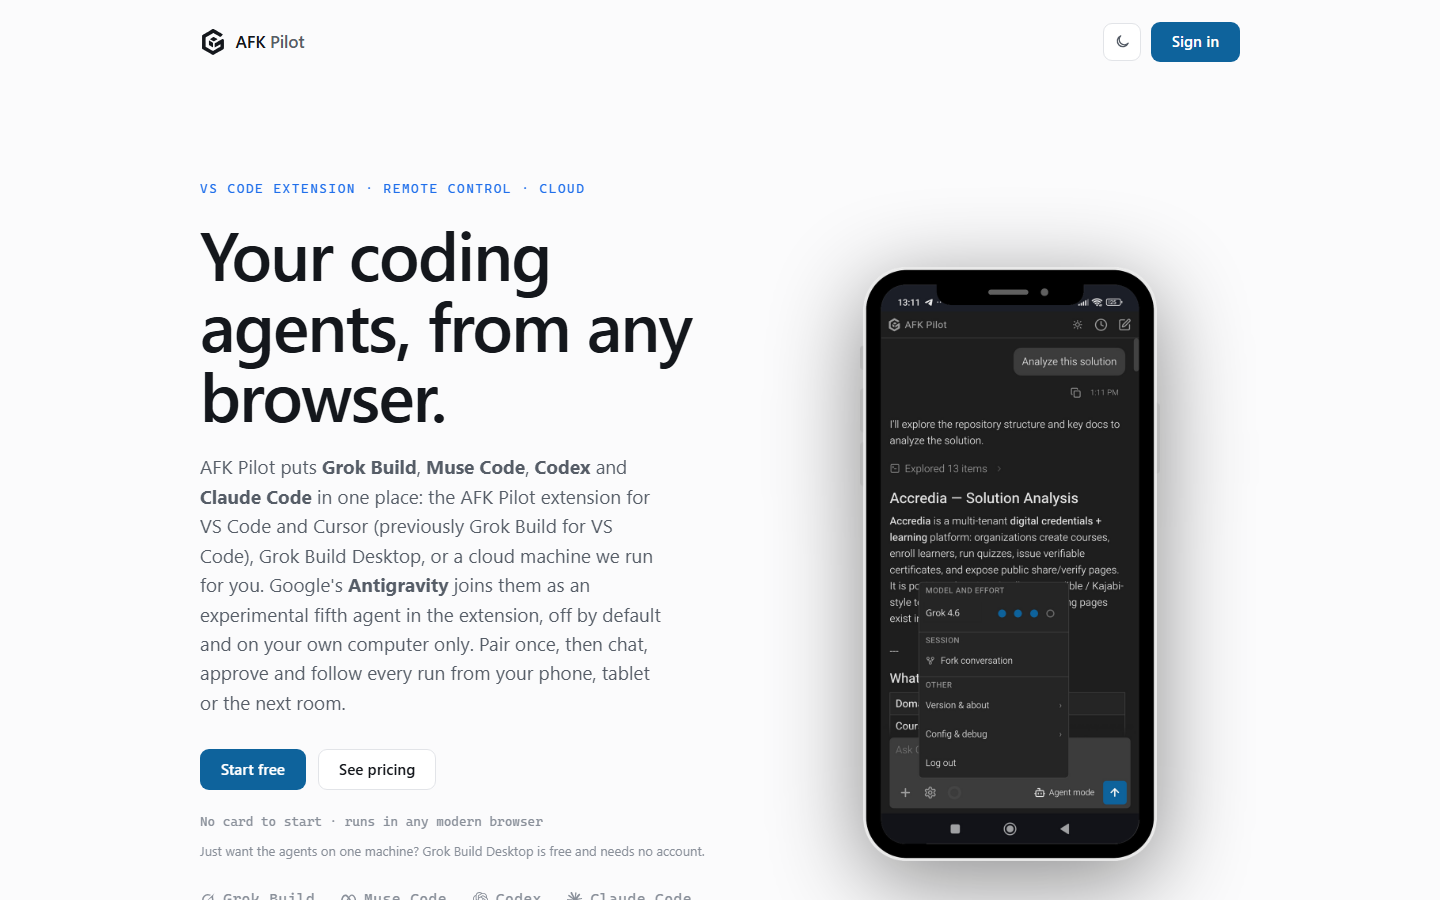
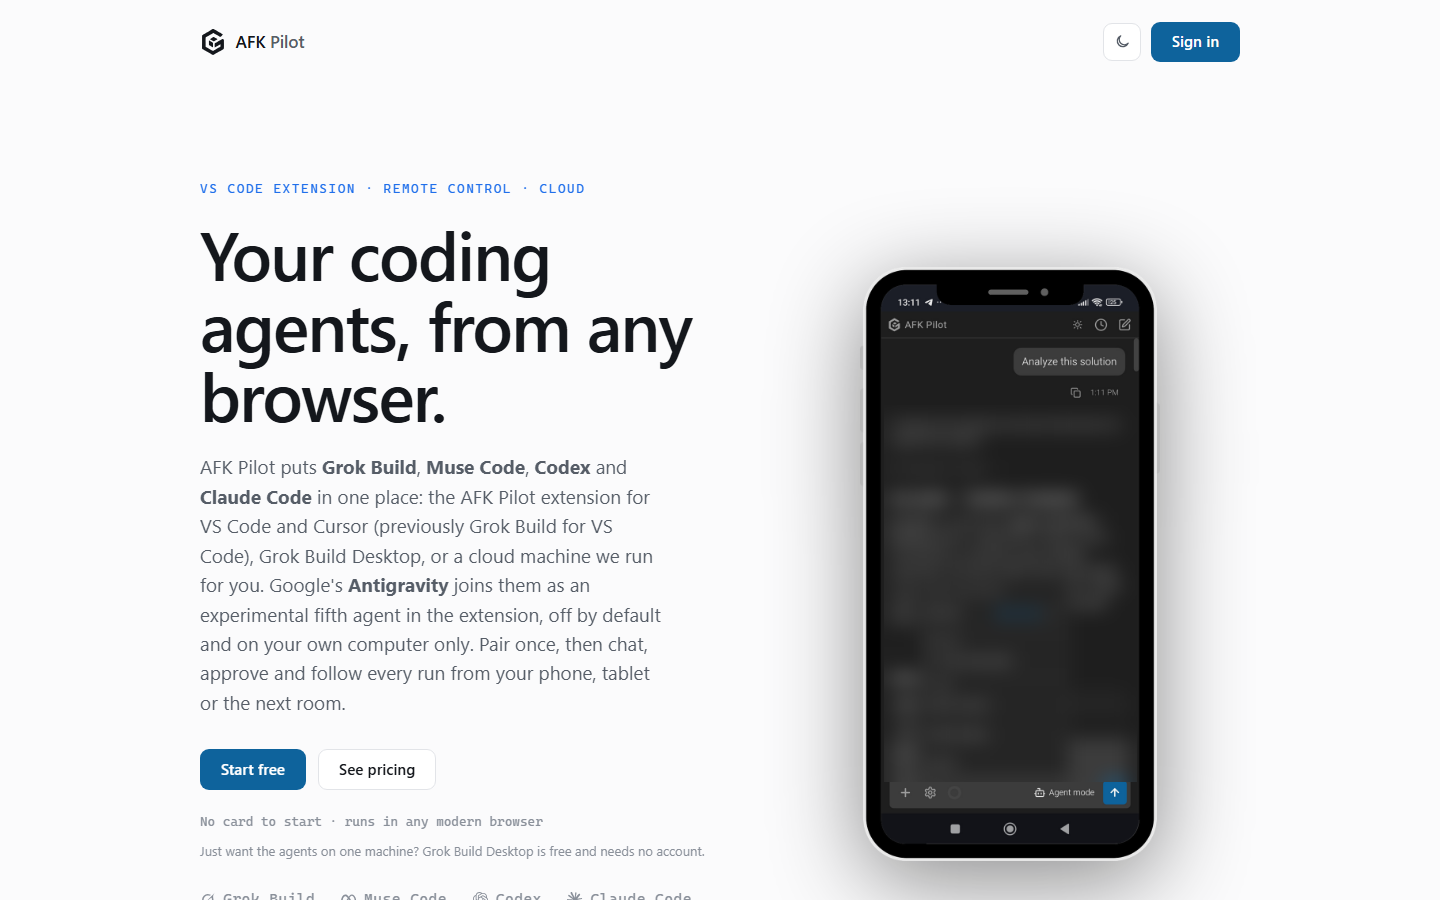
Round 92: the AFK Pilot screenshot's phone chat blurred; review and the walkthrough follow the pack, not a copy
- assets/case-studies/afkpilot.png: the chat on the hero's phone mockup named a
  private product; its text is blurred. AGENTS.md: a new or changed image is
  read by eye, since the leak check reads text files only.
- design's review.md: a general rule is drafted as a change for this collection
  naming method.md, and a preference goes in the kit README or user-level
  instructions, never into the installed pack.
- WALKTHROUGH and README: a builder needs app-stack installed in it for screens
  and an MCP server; the product keeps no copy.

Claude-Session: https://claude.ai/code/session_01Q1TYu6njEYr3HdHohgf61S

Changed region(s): [[0.625, 0.4667, 0.7812, 0.6844], [0.625, 0.7467, 0.6875, 0.84], [0.6562, 0.7156, 0.6875, 0.7467]]

diff --git a/app-stack/skills/design/references/review.md b/app-stack/skills/design/references/review.md
@@ -42,11 +42,11 @@ A monitoring product's design README said the method "applies unchanged" and poi
    - Each specimen is scoped (one class prefix, its own variables), so a set of them assembles into one page.
    - Publish that page where the owner can open it on a phone, as an artifact. Specimens decide faster than prose.
 7. **Sort fixes from owner's calls.** The test: does the change contradict something written, or is it taste? If either, it's the owner's call. Give each one a recommendation (do it / try it / don't) and what it goes against, and ask for the answers in one message, by number.
-8. **Build the fixes, and hold each rule with a test** where one can be written: a source scan, as the colour-literal guard is, or a pinned pair in the token test. Write each rule into the method (general) or the product's kit README (this product only), with its receipt. A rule that only exists in a review report is gone by the next product.
+8. **Build the fixes, and hold each rule with a test** where one can be written: a source scan, as the colour-literal guard is, or a pinned pair in the token test. Write a rule for this product only into its kit README, and a general one as a change for this collection that names `method.md` (`SKILL.md § When something is learned`), each with its receipt; an edit to the installed pack is lost at its next update. A rule that only exists in a review report is gone by the next product.
 9. **Review the change independently**, like any other code. Presentation changes misstate state.
    - A new green mark beside an existing all-clear headline showed for a monitor that hadn't been checked yet. Two more rounds each found another sentence on that screen disagreeing with it (`2026-10-22`).
    - When a change touches one sentence about state, the brief asks for an audit of **every** sentence on that screen about the same state.
-10. **Record every owner decision, including a no, with its reason**: in the product's decision log, and under the owner's preferences in `SKILL.md` when it is a preference rather than a product choice. A rejected recommendation without its reason comes back in the next review.
+10. **Record every owner decision, including a no, with its reason**: in the product's decision log, and, when it is a preference rather than a product choice, in the kit README or the owner's user-level agent instructions (`SKILL.md § The owner's standing preferences`). A rejected recommendation without its reason comes back in the next review.
 
 ## The report
 

diff --git a/WALKTHROUGH.md b/WALKTHROUGH.md
@@ -154,7 +154,7 @@ A typical setup:
 - **Codex builds** what is worth handing off (`codex-agents`). The test is size: if the brief would be nearly as long as the change, the coordinator writes the change itself.
 - **Grok reviews** (`independent-review`, with Grok driven as `grok-agents` says).
 
-Only the coordinator needs the skills: Codex builds from its brief, and the reviewer starts without them on purpose. The one copy a product keeps is `design`, which a brief for screens points builders at by path. If you also work in Codex directly, install the packs there too, since each agent reads skills from its own place. `agent-instructions` shows how to route to a skill from the product's agent instructions.
+The coordinator needs the skills, and so does a builder whose brief names one: install `app-stack` in Codex too, so a brief for screens or an MCP server names `$app-stack:design` or `$app-stack:mcp-server`. The product keeps no copy of either. The reviewer starts without them on purpose. If you also work in Codex directly, install the other packs there too, since each agent reads skills from its own place. `agent-instructions` shows how to route to a skill from the product's agent instructions.
 
 ## What you do, and what you don't
 

diff --git a/README.md b/README.md
@@ -38,7 +38,7 @@ In Claude Code or the Claude desktop app, that turns the six packs on for this p
 
 In Codex, plugins install for your user, in every project: run the Codex commands below, start a new session, then type `$product:start-here`. If your agent can't install from a prompt, use the commands below.
 
-**More than one agent?** Claude Code and Codex read skills from different places, so install in each one you work in. When one agent coordinates and drives the others, only that one needs the skills: a builder works from its brief, and a reviewer starts without them on purpose.
+**More than one agent?** Claude Code and Codex read skills from different places, so install in each one you work in. When one agent coordinates and drives the others, that one needs the skills, and a builder needs `app-stack` installed in it for screens and an MCP server, which its brief names; a reviewer starts without them on purpose.
 
 <details>
 <summary>Install commands: Claude Code, Codex, any other agent</summary>

diff --git a/AGENTS.md b/AGENTS.md
@@ -30,5 +30,6 @@ Many skills began as copies or extractions from other repositories. `sources.jso
 ## Before a commit
 
 - `VALIDATE_STRICT=1 python tools/validate.py` passes, here, with `tools/leaks.local.txt` present (strict, so a missing PyYAML or Claude Code CLI fails here as it does in the hosted run). The hosted Tests run (`.github/workflows/tests.yml`) has no private-names list, so its green never replaces this local run.
+- **A new or changed image is read by eye** for every name rule 1 keeps out, since the leak check reads text files only. (`2026-11-03`: a live product's home-page screenshot showed a private product's name in the chat on its phone mockup; a review round caught it.)
 - New or renamed skills are listed in their plugin's `README.md` and in the root `README.md`.
 - Commit messages through a heredoc (`git commit -F -`), never `-m "…"`: backticks inside `-m` are command substitution and vanish silently.
